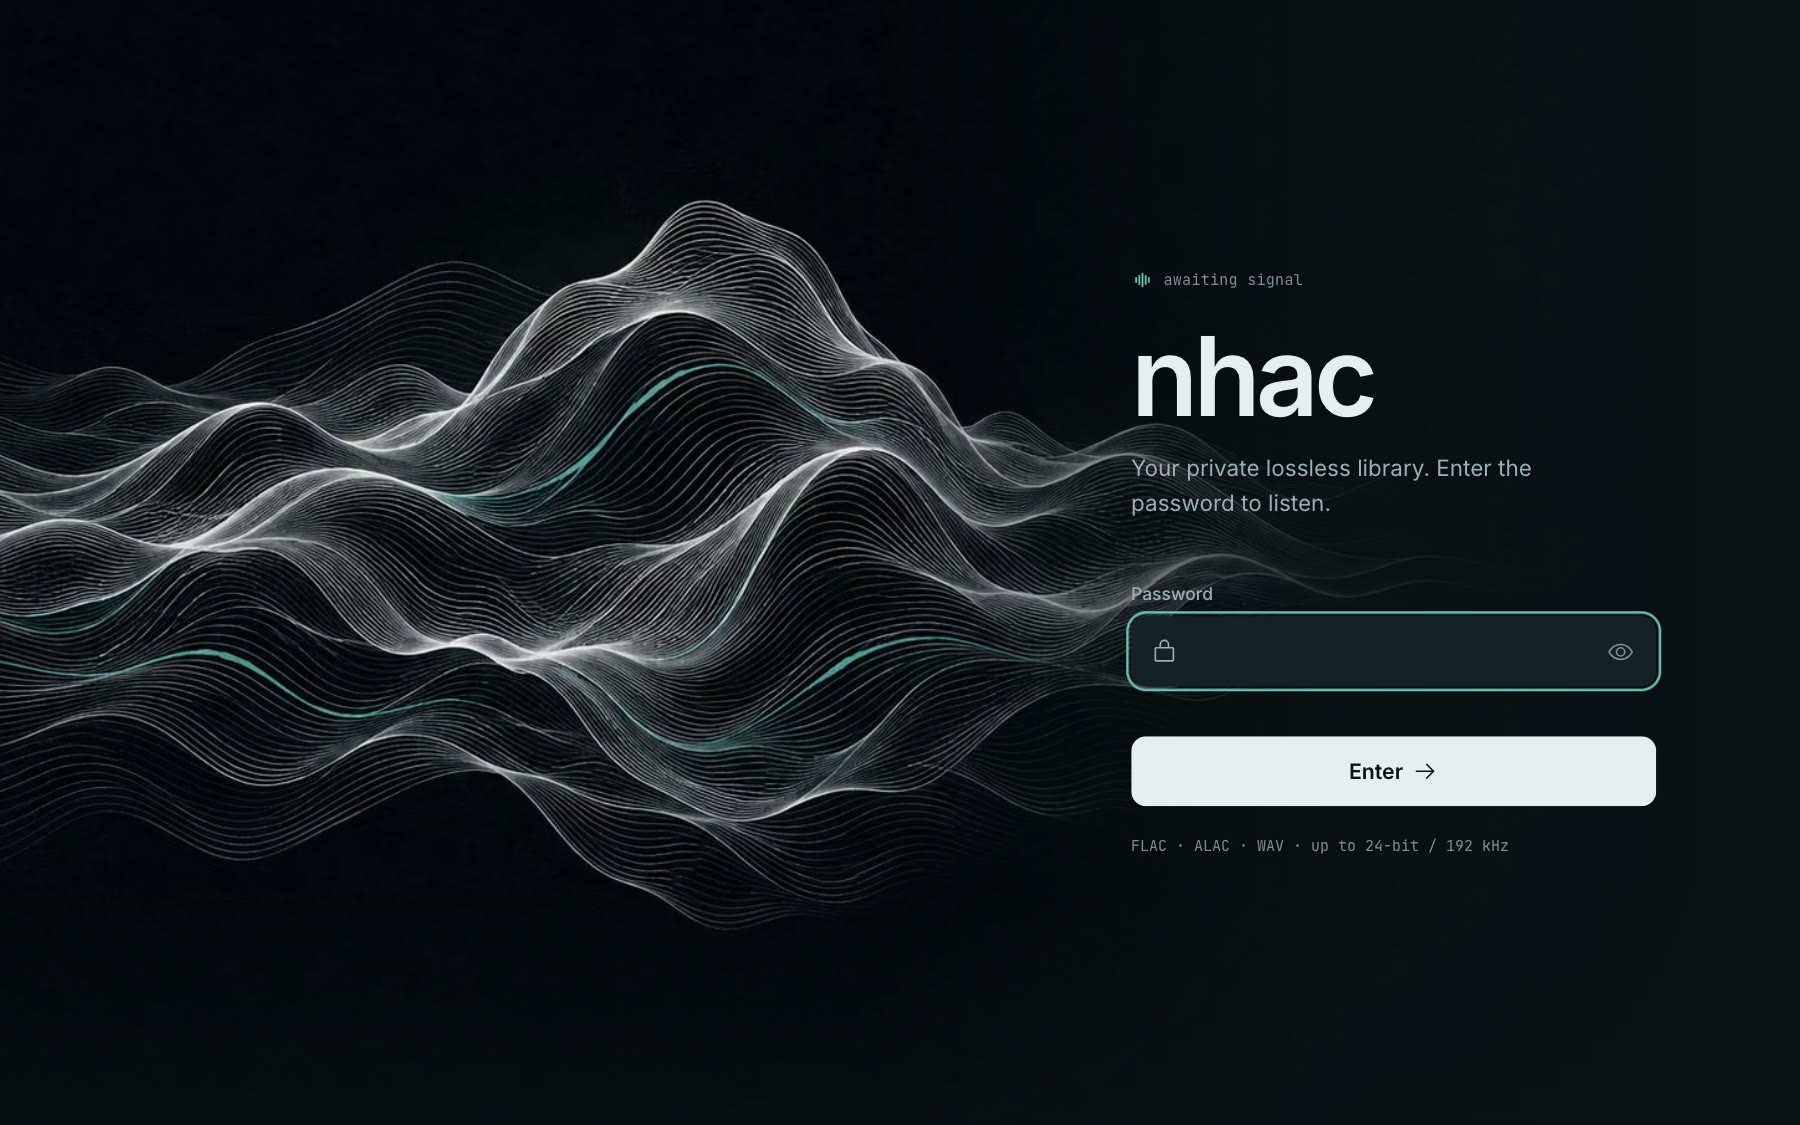
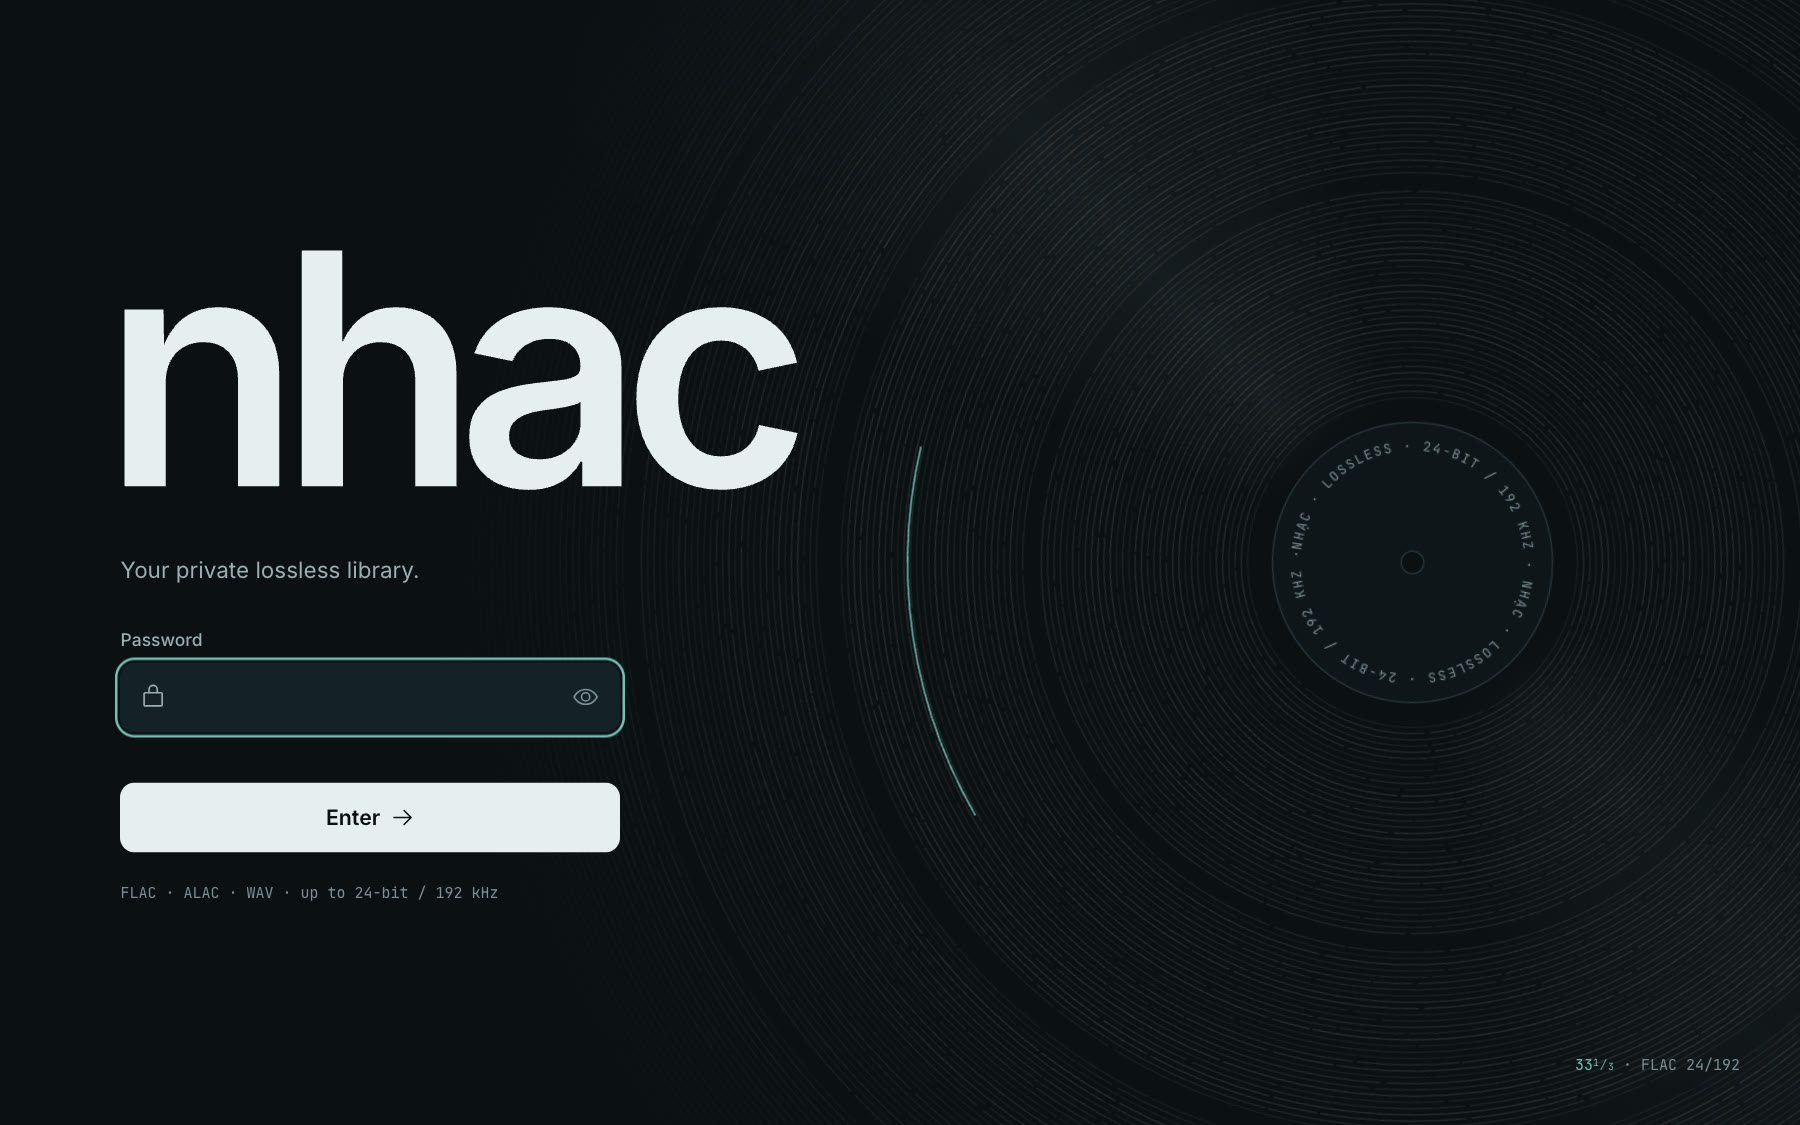
docs: lyrics, sharing, spectrogram and context menus; refresh screenshots

diff --git a/README.md b/README.md
@@ -22,19 +22,21 @@ Stream your own FLAC, ALAC and WAV files at full resolution, up to 24-bit / 192 
 - **Waveform seek bar.** Every track gets a real loudness waveform computed once when you index your library.
 - **Is it really lossless?** The indexer draws a spectrogram of every track and flags files that are lossy or upsampled underneath their lossless container (an MP3 re-saved as FLAC, a CD rip padded to 24/96). See [how the check works](#is-it-really-lossless) and where it can be wrong.
 - **Stereo level meter.** Live L/R levels with peak hold on the Now Playing screen, read from the actual decoded signal (disabled on iOS, where WebKit would cut audio in the background).
+- **Synced lyrics.** Karaoke-style lyrics from embedded LRC tags or a `.lrc` file next to the track: the current line follows the music, tap a line to jump there, plain lyrics as a fallback.
+- **Share a song.** Copy a link to a track (optionally at a timestamp) or use the phone's share sheet. Opening it after signing in lands on that song, ready to play.
 - **Honest signal path.** Source → lossless decode → browser output, including the output sample rate the browser actually uses. No "bit-perfect" marketing.
 - **Gapless-ish transitions.** The next track is buffered shortly before the current one ends and swapped in on `ended`.
 - **Fast at any size.** Albums, songs and artists are virtualized; a 1,000+ album library scrolls smoothly. Progress, waveform and meter update outside the render cycle.
 - **Search that understands accents.** `mua` finds "Mưa" and "Mùa", `dem sai gon` finds "Đêm Sài Gòn". Results are ranked across artists, albums and songs, with the matched part highlighted.
 - **Feels native on phones.** Bottom tabs, a mini player and a full-screen Now Playing sheet with drag-to-dismiss, lock-screen controls via the Media Session API, safe-area aware, installable as a PWA.
 - **Remembers where you were.** Queue, position, volume, shuffle and repeat survive reloads, without touching the network until you press play.
-- **Keyboard first.** <kbd>Space</kbd> play/pause, <kbd>←</kbd>/<kbd>→</kbd> seek 10 s, <kbd>Shift</kbd>+<kbd>←</kbd>/<kbd>→</kbd> previous/next, <kbd>M</kbd> mute, <kbd>/</kbd> or <kbd>⌘K</kbd> search.
+- **Keyboard first.** <kbd>Space</kbd> play/pause, <kbd>←</kbd>/<kbd>→</kbd> seek 10 s, <kbd>Shift</kbd>+<kbd>←</kbd>/<kbd>→</kbd> previous/next, <kbd>M</kbd> mute, <kbd>/</kbd> or <kbd>⌘K</kbd> search, <kbd>L</kbd> lyrics, <kbd>S</kbd> spectrogram. Right-click (or <kbd>Shift</kbd>+<kbd>F10</kbd>) any track or album for play next, add to queue and share.
 - **Private by default.** One password, HMAC-signed HttpOnly session cookie, login rate limiting, and nothing of your library is visible before you sign in.
 - **English and Vietnamese UI**, picked from your browser language or set in Settings.
 - **Motion that respects you.** Short, interruptible transitions on transform and opacity only, and a full `prefers-reduced-motion` path.
 
 <div align="center">
-<img src="docs/screenshots/mobile.jpg" alt="nhac on a phone: library, accent-insensitive search for 'mua', and the login screen" width="100%">
+<img src="docs/screenshots/mobile.jpg" alt="nhac on a phone: library, accent-insensitive search for 'mua', and the login screen with its vector record" width="100%">
 </div>
 
 <table>
@@ -43,8 +45,12 @@ Stream your own FLAC, ALAC and WAV files at full resolution, up to 24-bit / 192 
 <td width="50%"><img src="docs/screenshots/desktop-nowplaying.jpg" alt="Now Playing with waveform, stereo level meter and signal path"></td>
 </tr>
 <tr>
+<td width="50%"><img src="docs/screenshots/desktop-lyrics.jpg" alt="Synced lyrics following the music"></td>
+<td width="50%"><img src="docs/screenshots/desktop-spectrum.jpg" alt="Spectrogram flagging a lossy source with a 16.9 kHz brickwall"></td>
+</tr>
+<tr>
 <td width="50%"><img src="docs/screenshots/desktop-search.jpg" alt="Search for 'mua' matching Mưa and Mùa"></td>
-<td width="50%"><img src="docs/screenshots/desktop-login.jpg" alt="Login screen"></td>
+<td width="50%"><img src="docs/screenshots/desktop-login.jpg" alt="Login screen with a vector record"></td>
 </tr>
 </table>
 
